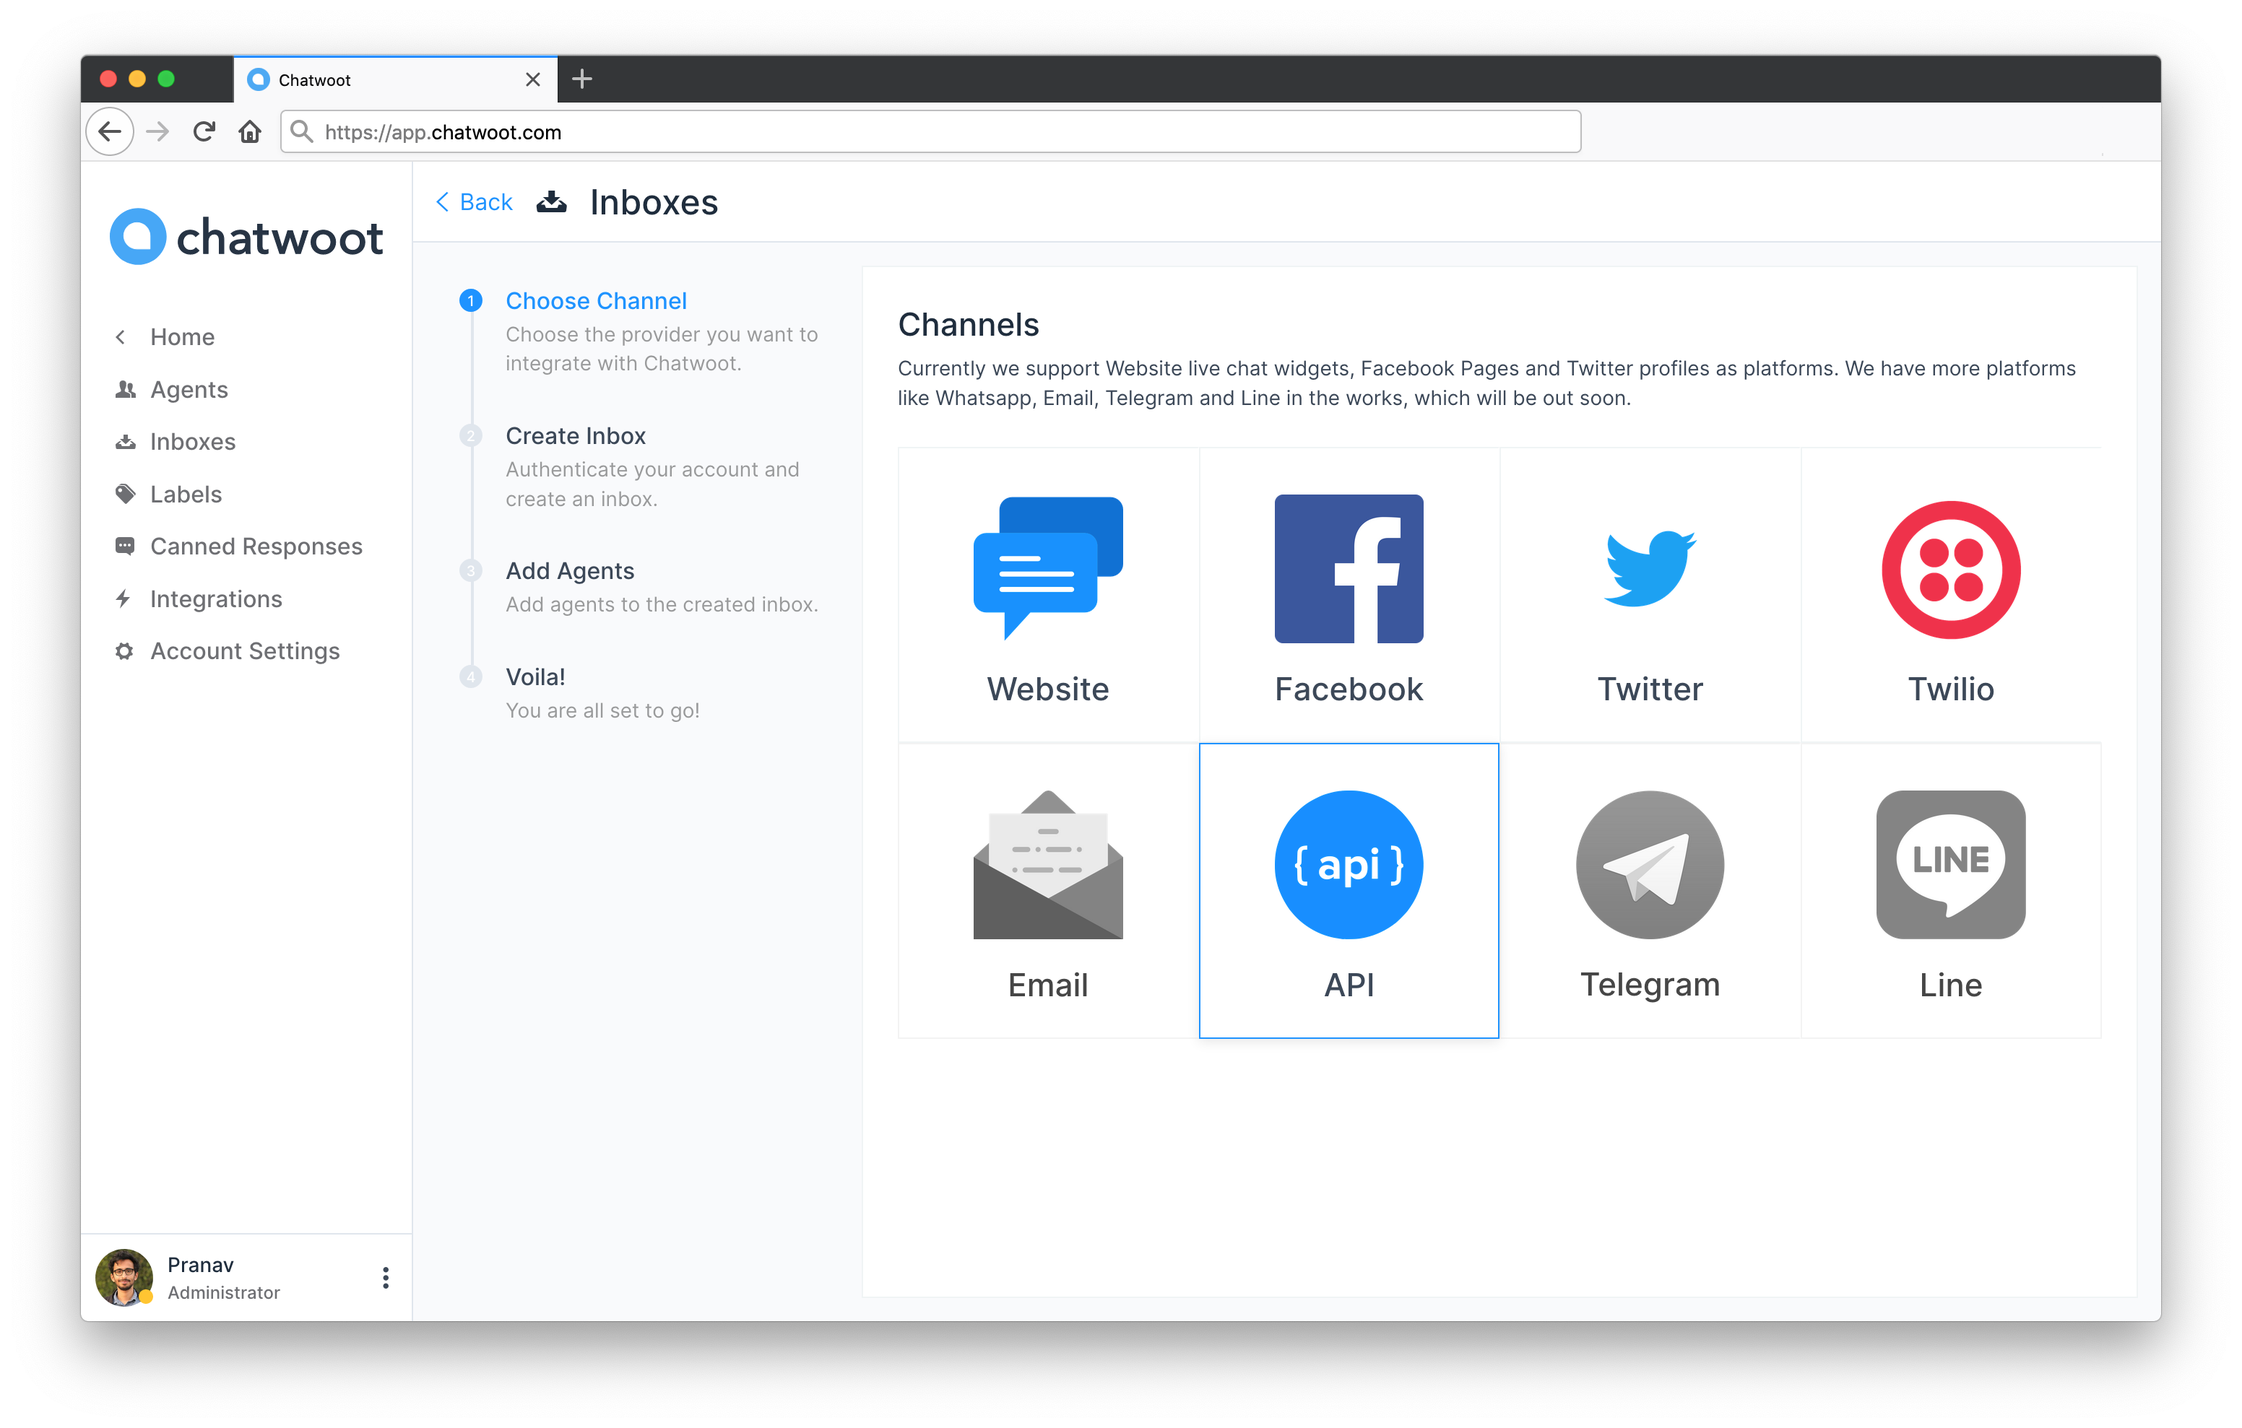
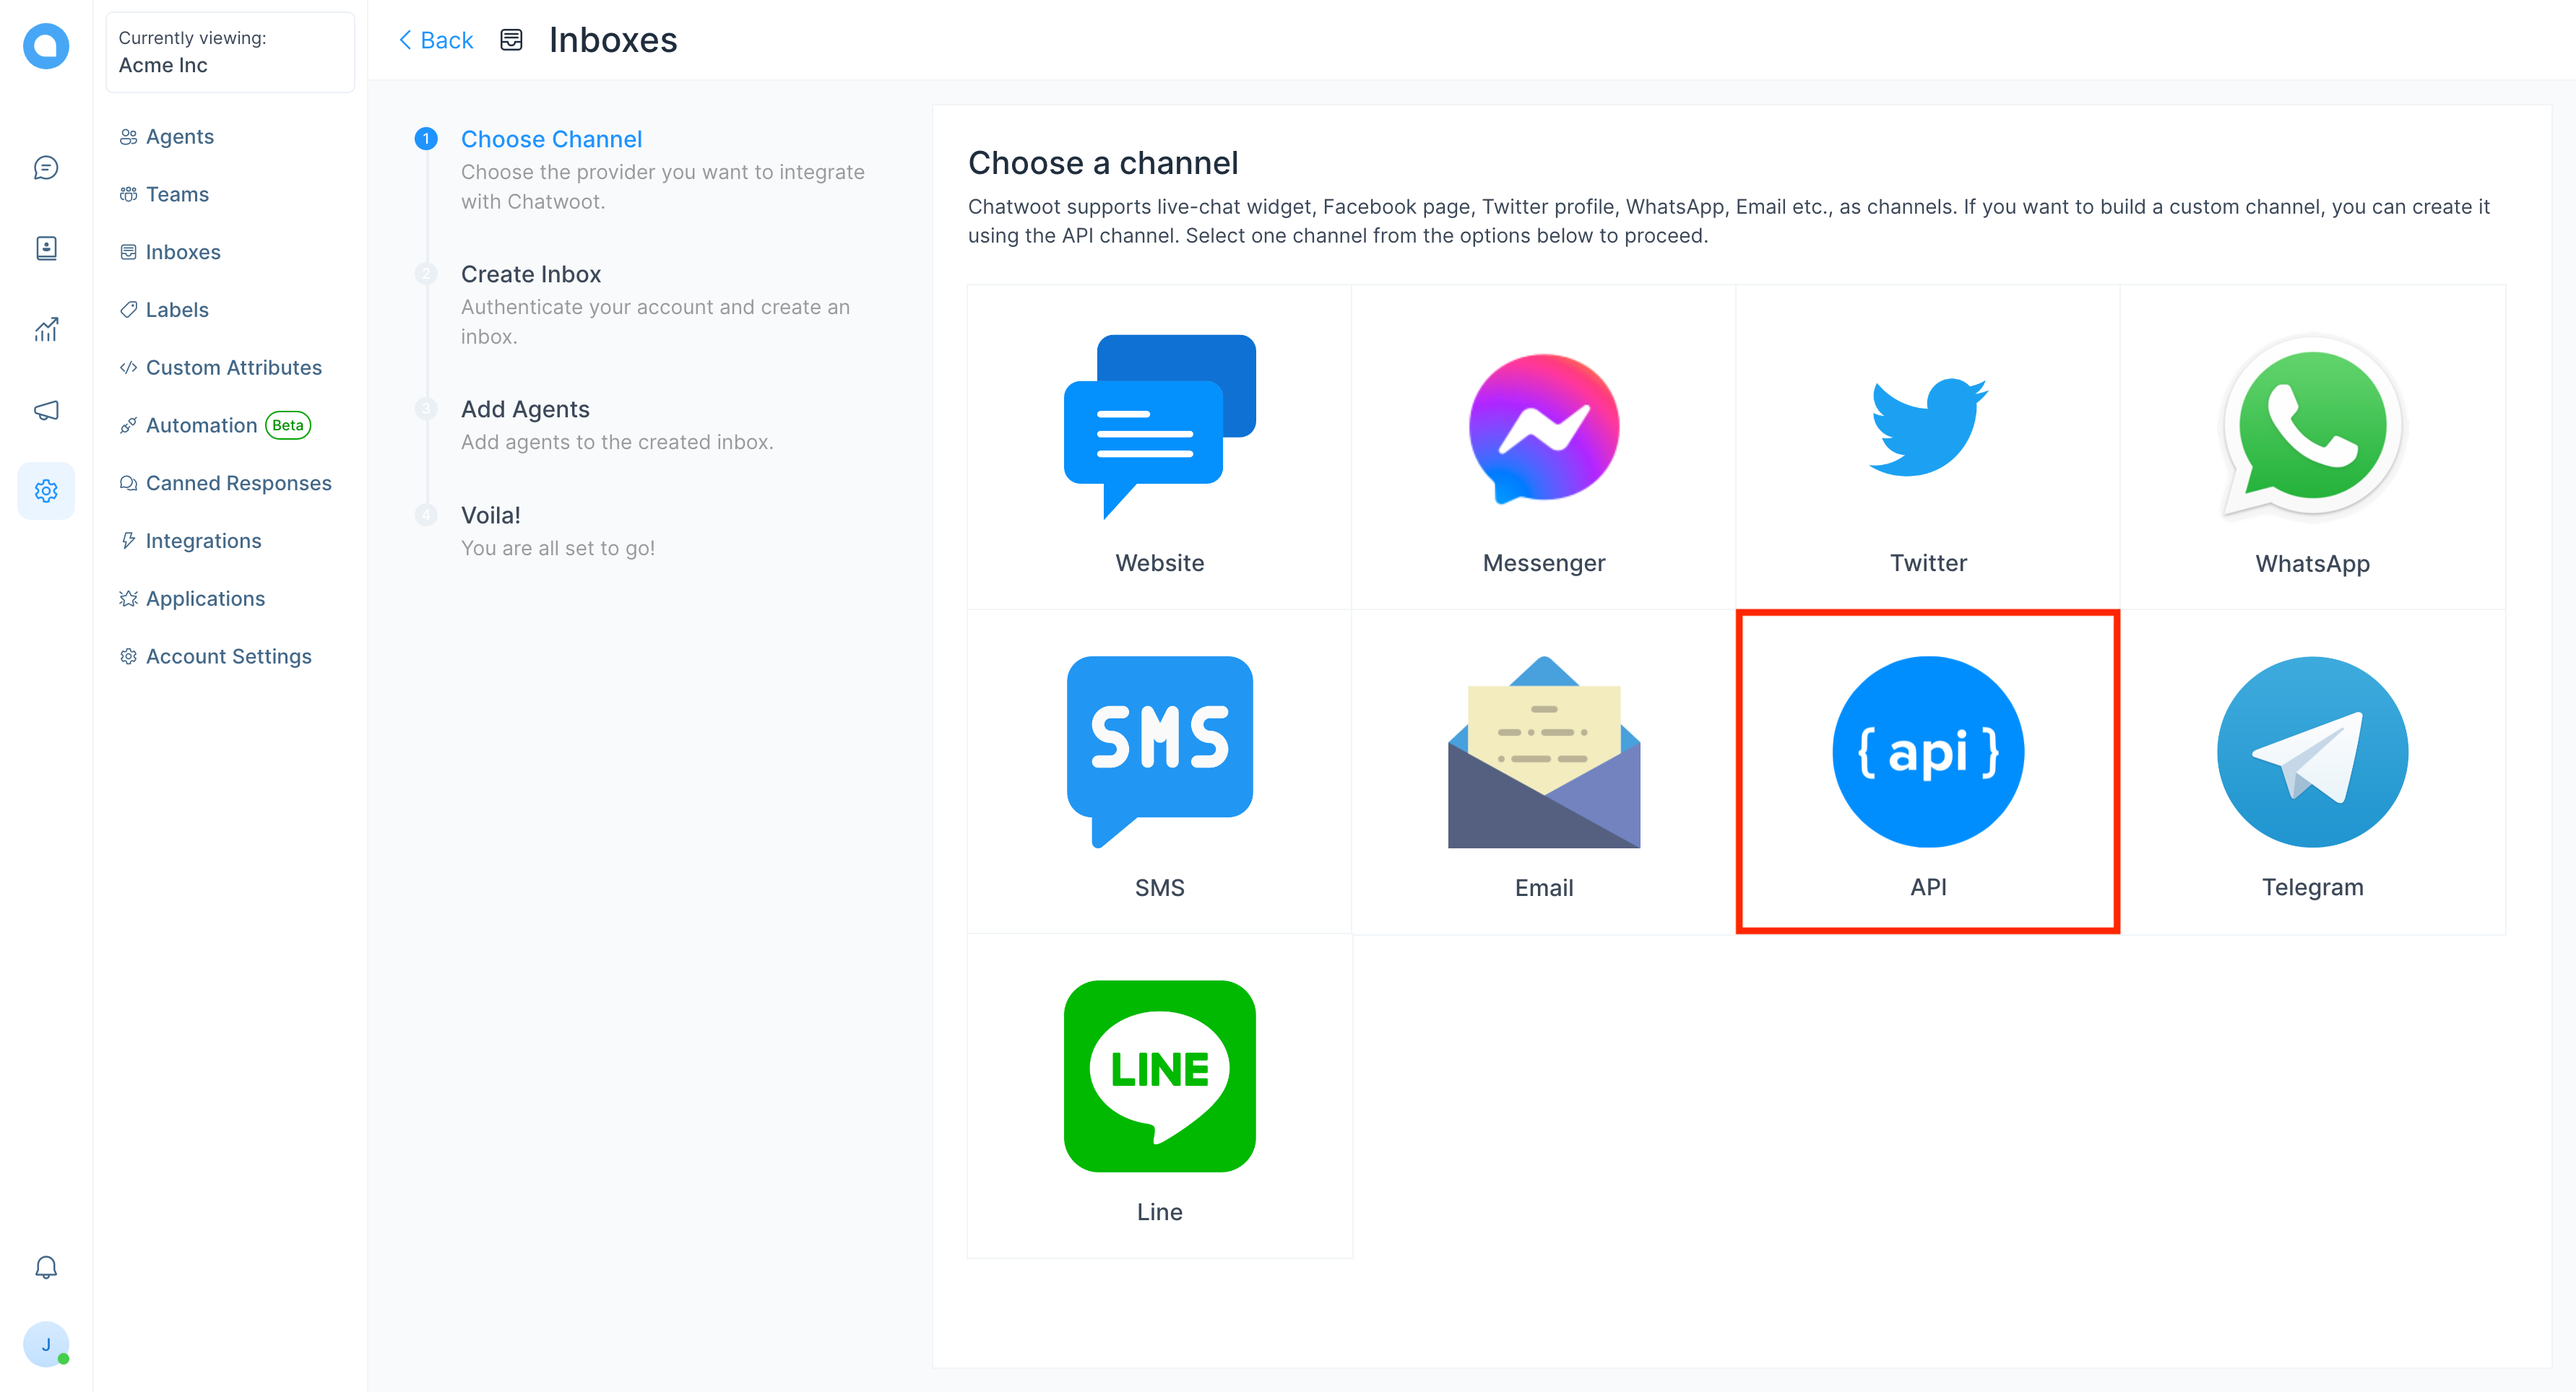
chore: Update Channel Docs (#239)
* chore: Clean up Channel Instructions

* chore: "update links"

diff --git a/config/sidebar/product.js b/config/sidebar/product.js
@@ -52,14 +52,17 @@ module.exports = [
       "product/channels/facebook",
       "product/channels/instagram",
       "product/channels/twitter",
-      "product/channels/twilio-whatsapp-sms",
       {
-        "API Channel": [
-          "product/channels/api/create-channel",
-          "product/channels/api/send-messages",
-          "product/channels/api/receive-messages",
-          "product/channels/api/client-apis",
-        ],
+        "Whatsapp Channel": [      
+          "product/channels/whatsapp/twilio",
+          "product/channels/whatsapp/360dialog"
+        ]
+      },
+      {
+        "SMS Channel": [      
+          "product/channels/sms/twilio",
+          "product/channels/sms/bandwidth"
+        ]
       },
       {
         Email: [
@@ -75,6 +78,14 @@ module.exports = [
               "product/channels/email/gmail/add-forward-email",
             ],
           },
+        ],
+      },
+      {
+        "API Channel": [
+          "product/channels/api/create-channel",
+          "product/channels/api/send-messages",
+          "product/channels/api/receive-messages",
+          "product/channels/api/client-apis",
         ],
       },
       "product/channels/telegram",

diff --git a/docs/product/channels/whatsapp/twilio.md b/docs/product/channels/whatsapp/twilio.md
@@ -1,0 +1,82 @@
+---
+sidebar_label: "Twilio"
+title: 'How to create a Whatsapp channel with Twilio?'
+---
+
+**Step 1**. Go to "Settings" page by clicking the settings icon in the left sidebar.
+
+![dashboard](../images/line/dashboard.png)
+
+**Step 2**. Select "Inboxes" from left side panel and Click on "Add Inbox" button.
+
+![inbox_settings](../images/line/inbox_settings.png)
+
+**Step 3**. Click on the Whatspp Icon.
+
+![inbox_settings](../images/whatsapp/select_whatsapp.png)
+
+**Step 4**. Select `Twilio` as the provider option and Configure the inbox.
+
+These are the inputs required to create this channel:
+
+<div class="table table-striped">
+
+| Input        | Description                                                                                                           | Where can I find it                                                                            |
+| ------------ | --------------------------------------------------------------------------------------------------------------------- | ---------------------------------------------------------------------------------------------- |
+| Inbox Name | This is the name inbox, this will be used across the application.                                                     | N/A                                                                                            |
+| Phone Number | This is the number you will be using to communicate with your customer. This has to be verified in Twilio.            | Enter your number as in the Twilio Dashboard                                                   |
+| Account SID  | Account SID in Twilio Console                                                                                         | Login to Twilio Console. Here, you would be able to see the Account SID and the Auth Token     |
+| Auth Token   | Auth token for the account                                                                                            | Login to the Twilio Console. Here, you would be able to see the Account SID and the Auth Token |
+
+</div>
+
+Click `Create Twilio Channel` after filling in the information.
+
+![create_twilio](../images/whatsapp/twilio_add_details.png)
+
+**Step 5**. "Add agents" to your inbox.
+
+![add_agents](../images/twilio/add_agents.png)
+
+**Step 6**. Hooray! You have successfully created a whatsapp inbox.
+
+![finish_inbox](../images/twilio/finish_inbox.png)
+
+
+To connect a **Whatsapp** channel, you have to configure a callback URL in the Twilio inbox:
+
+- Login to your Twilio Console.
+- Go to `Programmable SMS > Whatsapp > Senders`.
+- You will be able to see your phone number. Click on it, it will display a field like the one shown below.
+
+![twilio_console](../images/twilio/twilio_console.png)
+
+- Provide `https://app.chatwoot.com/twilio/callback` as the value for `WHEN A MESSAGE COMES IN` input.
+
+**Step 7**. If you want to update the agents who have access to the inbox, you can go to Settings > Inboxes.
+
+![inbox_settings](../images/twilio/inbox_settings.png)
+
+
+## Configuring Chatwoot with Twilio Studio 
+
+If you are using twilio studio for a custom conversation flow, Updating the webhook url directly will break your exising Integration. 
+
+For such cases you can follow the given steps. 
+
+1. Identify the step in your flow where you want the `agent handoff` to happen.
+2. Add a `make http request widget` as shown below with the give values
+
+![twilio_studio](../images/twilio/twilio_studio.png)
+
+**REQUEST METHOD** : POST
+
+**REQUEST URL**: https://app.chatwoot.com/twilio/callback
+
+**CONTENT TYPE**: Application/JSON
+
+**REQUEST BODY**: `{{trigger.message | to_json }}` ( make changes as required based on your flow variables)
+
+> HTTP request widget will forward the message body to Chatwoot. This will create a conversation in Chatwoot from where the agent can reply. 
+
+3. Make sure that your flow can handle the user reponses to Agent Replies. 

diff --git a/docs/product/channels/sms/twilio.md b/docs/product/channels/sms/twilio.md
@@ -1,0 +1,73 @@
+---
+sidebar_label: "Twilio"
+title: 'How to create a SMS channel with Twilio?'
+---
+
+**Step 1**. Go to "Settings" page by clicking the settings icon in the left sidebar.
+
+![dashboard](../images/line/dashboard.png)
+
+**Step 2**. Select "Inboxes" from left side panel and Click on "Add Inbox" button.
+
+![inbox_settings](../images/line/inbox_settings.png)
+
+**Step 3**. Click on the SMS Icon.
+
+![inbox_settings](../images/sms/select_sms.png)
+
+**Step 4**. Select `Twilio` as the provider option and Configure the inbox.
+
+These are the inputs required to create this channel:
+
+<div class="table table-striped">
+
+| Input        | Description                                                                                                           | Where can I find it                                                                            |
+| ------------ | --------------------------------------------------------------------------------------------------------------------- | ---------------------------------------------------------------------------------------------- |
+| Channel Name | This is the name inbox, this will be used across the application.                                                     | N/A                                                                                            | 
+| Phone Number | This is the number you will be using to communicate with your customer. This has to be verified in Twilio.            | Enter your number as in the Twilio Dashboard                                                   |
+| Account SID  | Account SID in Twilio Console                                                                                         | Login to Twilio Console. Here, you would be able to see the Account SID and the Auth Token     |
+| Auth Token   | Auth token for the account                                                                                            | Login to the Twilio Console. Here, you would be able to see the Account SID and the Auth Token |
+
+</div>
+
+Click `Create Twilio Channel` after filling in the information.
+
+![create_twilio](../images/sms/twilio_add_details.png)
+
+**Step 5**. "Add agents" to your inbox.
+
+![add_agents](../images/twilio/add_agents.png)
+
+**Step 6**. Hooray! You have successfully created a whatsapp/sms inbox.
+
+![finish_inbox](../images/twilio/finish_inbox.png)
+
+You will start receiving the messages in the dashboard whenever a customer sends you one.
+
+**Step 7**. If you want to update the agents who have access to the inbox, you can go to Settings > Inboxes.
+
+![inbox_settings](../images/twilio/inbox_settings.png)
+
+
+## Configuring Chatwoot with Twilio Studio 
+
+If you are using twilio studio for a custom conversation flow, Updating the webhook url directly will break your exising Integration. 
+
+For such cases you can follow the given steps. 
+
+1. Identify the step in your flow where you want the `agent handoff` to happen.
+2. Add a `make http request widget` as shown below with the give values
+
+![twilio_studio](../images/twilio/twilio_studio.png)
+
+**REQUEST METHOD** : POST
+
+**REQUEST URL**: https://app.chatwoot.com/twilio/callback
+
+**CONTENT TYPE**: Application/JSON
+
+**REQUEST BODY**: `{{trigger.message | to_json }}` ( make changes as required based on your flow variables)
+
+> HTTP request widget will forward the message body to Chatwoot. This will create a conversation in Chatwoot from where the agent can reply. 
+
+3. Make sure that your flow can handle the user reponses to Agent Replies. 

diff --git a/docs/product/channels/sms/bandwidth.md b/docs/product/channels/sms/bandwidth.md
@@ -1,0 +1,33 @@
+---
+sidebar_label: "Bandwidth"
+title: "How to create a SMS channel using Bandwidth?"
+---
+
+**Step 1**. Go to "Settings" page by clicking the settings icon in the left sidebar.
+
+![dashboard](../images/line/dashboard.png)
+
+**Step 2**. Select "Inboxes" from left side panel and Click on "Add Inbox" button.
+
+![inbox_settings](../images/line/inbox_settings.png)
+
+**Step 3**. Click on the SMS Icon.
+
+![inbox_settings](../images/sms/select_sms.png)
+
+**Step 4**. Select `Bandwidth` as the provider option and Configure the inbox.
+
+
+Click `Create Bandwidth Channel` after filling in the information.
+
+![create_bandwidth](../images/sms/bandwidth_add_details.png)
+
+**Step 5**. "Add agents" to your inbox.
+
+![add_agents](../images/twilio/add_agents.png)
+
+**Step 6**. Hooray! You have successfully created a sms inbox.
+
+![finish_inbox](../images/sms/bandwidth_finish_setup.png)
+
+You will start receiving the messages in the dashboard whenever a customer sends you one.

diff --git a/docs/product.md b/docs/product.md
@@ -21,9 +21,12 @@ This user guide includes a description of the features and capabilities, modes o
 - [Facebook](/docs/product/channels/facebook)
 - [Instagram](/docs/product/channels/instagram)
 - [Twitter](/docs/product/channels/twitter)
-- [Whatsapp via Twilio](/docs/product/channels/twilio-whatsapp-sms)
-- [API Channel](/docs/product/channels/api/create-channel)
+- [Whatsapp via Twilio](/docs/product/channels/whatsapp/twilio)
+- [Whatsapp via 360Dialog](/docs/product/channels/whatsapp/360dialog)
+- [SMS via Twilio](/docs/product/channels/sms/twilio)
+- [SMS via Bandwidth](/docs/product/channels/sms/bandwidth)
 - [Email](/docs/product/channels/email/create-channel)
+- [API Channel](/docs/product/channels/api/create-channel)
 - [Telegram](/docs/product/channels/telegram)
 - [Line](/docs/product/channels/line)
 

diff --git a/docs/product/channels/whatsapp/360dialog.md b/docs/product/channels/whatsapp/360dialog.md
@@ -1,0 +1,18 @@
+---
+sidebar_label: "360Dialog"
+title: "How to create a Whatsapp channel using 360Dialog API?"
+---
+
+**Step 1**. Go to "Settings" page by clicking the settings icon in the left sidebar.
+
+![dashboard](../images/line/dashboard.png)
+
+**Step 2**. Select "Inboxes" from left side panel and Click on "Add Inbox" button.
+
+![inbox_settings](../images/line/inbox_settings.png)
+
+**Step 3**. Click on "Whatsapp" icon.
+
+![list_of_channels](../images/whatsapp/360dialog.gif)
+
+**Step 4**. Fill in the required details and the Whatsapp Channel will be ready to use.

diff --git a/docs/product/channels/facebook.md b/docs/product/channels/facebook.md
@@ -9,7 +9,7 @@ If you are using a self-hosted Chatwoot installation, please configure the Faceb
 
 ![fb_create](./images/facebook/inbox_create.png)
 
-**Step 2**. Click on "Facebook" icon.
+**Step 2**. Click on "Messenger" icon.
 
 ![list_of_channels](./images/facebook/list_of_channels.png)
 
